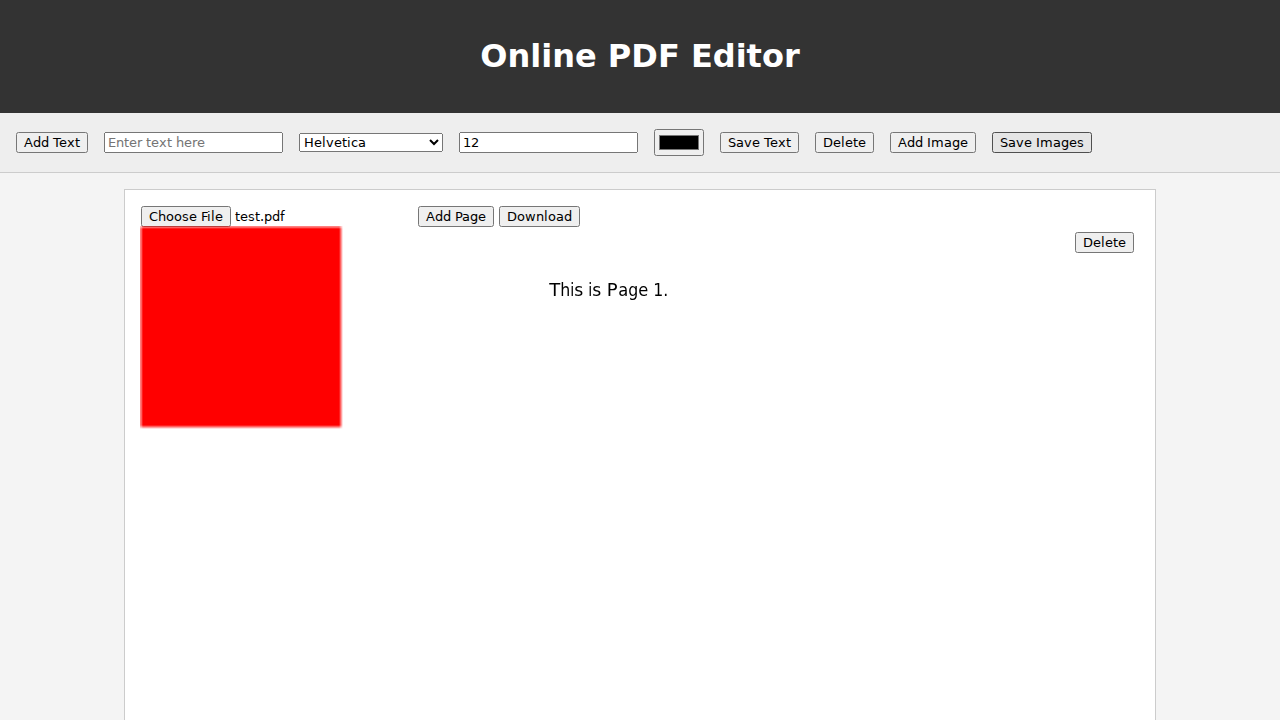
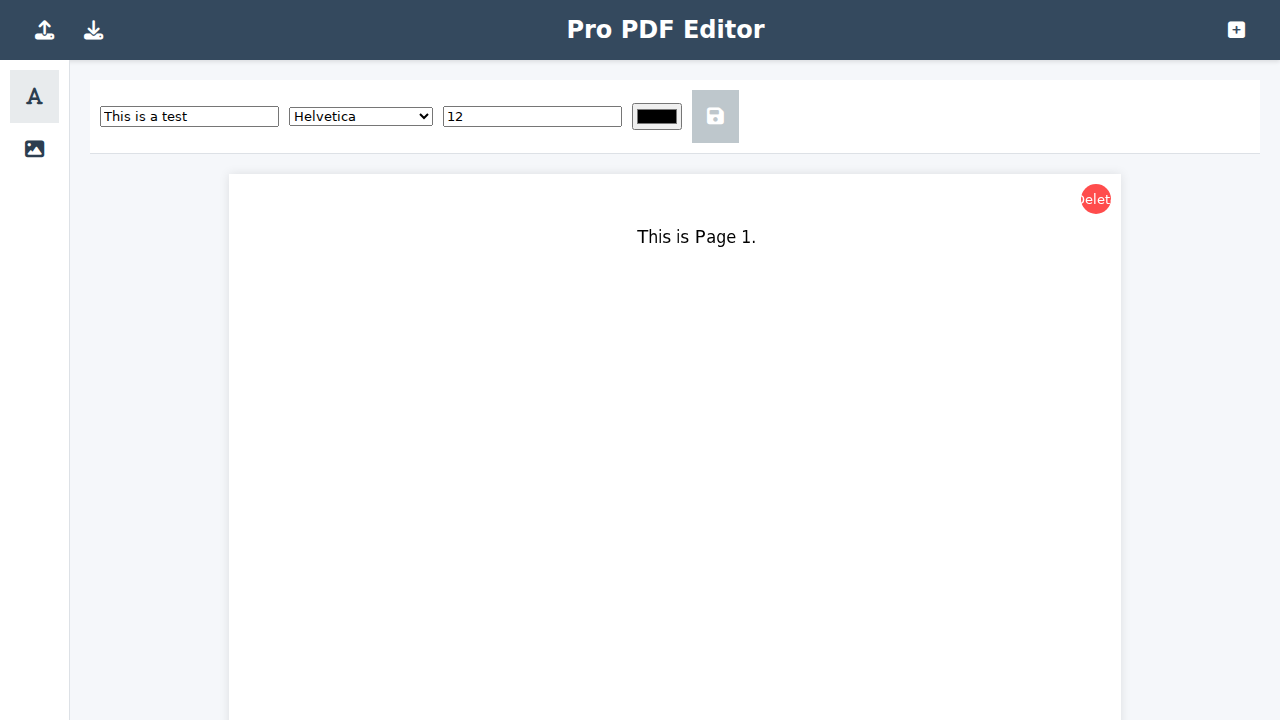
feat: Complete UI overhaul for a modern and professional interface
This commit introduces a complete redesign of the application's user interface to provide a more professional, intuitive, and user-friendly experience.

Key changes:
- **Restructured Layout:** The UI has been reorganized into a main horizontal toolbar for file operations and a vertical toolbar for editing tools.
- **Icon-Based Buttons:** All text-based buttons have been replaced with universally recognized icons from Font Awesome for a cleaner and more compact design.
- **Modern Styling:** A new, professional color scheme and modern styling have been applied to all UI elements using Flexbox for layout and improved spacing.
- **Context-Aware Toolbar:** A new context-aware toolbar has been implemented to show tool-specific options only when a tool is active, decluttering the main interface.
- **JavaScript Refactoring:** The application's JavaScript has been updated to work seamlessly with the new UI structure and elements.
- **Updated Verification:** The automated frontend test has been updated to verify the application's functionality with the redesigned UI.

diff --git a/index.html b/index.html
@@ -3,40 +3,58 @@
 <head>
     <meta charset="UTF-8">
     <meta name="viewport" content="width=device-width, initial-scale=1.0">
-    <title>Online PDF Editor</title>
+    <title>Pro PDF Editor</title>
     <link rel="stylesheet" href="style.css">
+    <link rel="stylesheet" href="https://cdnjs.cloudflare.com/ajax/libs/font-awesome/6.4.0/css/all.min.css">
     <script src="https://cdnjs.cloudflare.com/ajax/libs/pdf.js/2.6.347/pdf.min.js"></script>
     <script src="https://unpkg.com/pdf-lib@1.17.1/dist/pdf-lib.min.js"></script>
     <script src="https://cdn.jsdelivr.net/npm/interactjs/dist/interact.min.js"></script>
 </head>
 <body>
-    <header>
-        <h1>Online PDF Editor</h1>
-    </header>
-    <div id="toolbar">
-        <button id="add-text-btn">Add Text</button>
-        <input type="text" id="text-input" placeholder="Enter text here">
-        <select id="font-select">
-            <option value="Helvetica">Helvetica</option>
-            <option value="TimesRoman">Times New Roman</option>
-            <option value="Courier">Courier</option>
-        </select>
-        <input type="number" id="font-size-input" value="12">
-        <input type="color" id="font-color-input" value="#000000">
-        <button id="save-text-btn">Save Text</button>
-        <button id="delete-text-btn">Delete</button>
-        <button id="add-image-btn">Add Image</button>
-        <input type="file" id="image-input" accept="image/jpeg, image/png" style="display: none;">
-        <button id="save-images-btn">Save Images</button>
-    </div>
-    <main>
-        <div id="pdf-viewer-container">
-            <input type="file" id="file-input" accept="application/pdf">
-            <button id="add-page-btn">Add Page</button>
-            <button id="download-btn">Download</button>
-            <div id="pdf-viewer"></div>
+    <div id="app-container">
+        <header id="main-toolbar">
+            <div class="toolbar-section">
+                <button id="upload-btn" class="toolbar-button" title="Upload PDF"><i class="fas fa-upload"></i></button>
+                <input type="file" id="file-input" accept="application/pdf" style="display: none;">
+                <button id="download-btn" class="toolbar-button" title="Download PDF"><i class="fas fa-download"></i></button>
+            </div>
+            <h1 id="app-title">Pro PDF Editor</h1>
+            <div class="toolbar-section">
+                <button id="add-page-btn" class="toolbar-button" title="Add Page"><i class="fas fa-plus-square"></i></button>
+            </div>
+        </header>
+
+        <div id="content-area">
+            <aside id="vertical-toolbar">
+                <button id="add-text-btn" class="toolbar-button" title="Add Text"><i class="fas fa-font"></i></button>
+                <button id="add-image-btn" class="toolbar-button" title="Add Image"><i class="fas fa-image"></i></button>
+                <input type="file" id="image-input" accept="image/jpeg, image/png" style="display: none;">
+            </aside>
+
+            <main id="viewer-container">
+                <div id="context-toolbar" class="hidden">
+                    <!-- Text Controls -->
+                    <div id="text-controls" class="context-controls hidden">
+                        <input type="text" id="text-input" placeholder="Enter text">
+                        <select id="font-select">
+                            <option value="Helvetica">Helvetica</option>
+                            <option value="TimesRoman">Times New Roman</option>
+                            <option value="Courier">Courier</option>
+                        </select>
+                        <input type="number" id="font-size-input" value="12" min="1">
+                        <input type="color" id="font-color-input" value="#000000">
+                        <button id="save-text-btn" class="toolbar-button"><i class="fas fa-save"></i></button>
+                        <button id="delete-text-btn" class="toolbar-button"><i class="fas fa-trash"></i></button>
+                    </div>
+                    <!-- Image Controls -->
+                    <div id="image-controls" class="context-controls hidden">
+                        <button id="save-images-btn" class="toolbar-button"><i class="fas fa-save"></i></button>
+                    </div>
+                </div>
+                <div id="pdf-viewer"></div>
+            </main>
         </div>
-    </main>
+    </div>
     <script src="app.js"></script>
 </body>
 </html>

diff --git a/style.css b/style.css
@@ -1,43 +1,122 @@
+:root {
+    --primary-bg: #F5F7FA;
+    --secondary-bg: #FFFFFF;
+    --toolbar-bg: #34495E;
+    --hover-bg: #4A6572;
+    --text-light: #FFFFFF;
+    --text-dark: #2C3E50;
+    --border-color: #DDE1E6;
+}
+
 body {
-    font-family: sans-serif;
+    font-family: 'Segoe UI', Tahoma, Geneva, Verdana, sans-serif;
     margin: 0;
-    background-color: #f4f4f4;
+    background-color: var(--primary-bg);
+    color: var(--text-dark);
+    display: flex;
+    flex-direction: column;
+    height: 100vh;
 }
 
-header {
-    background-color: #333;
-    color: white;
-    padding: 1rem;
-    text-align: center;
+#app-container {
+    display: flex;
+    flex-direction: column;
+    height: 100%;
 }
 
-main {
-    padding: 1rem;
+/* Main Toolbar */
+#main-toolbar {
+    background-color: var(--toolbar-bg);
+    color: var(--text-light);
+    display: flex;
+    justify-content: space-between;
+    align-items: center;
+    padding: 0 20px;
+    box-shadow: 0 2px 4px rgba(0,0,0,0.1);
 }
 
-#toolbar {
-    background-color: #eee;
-    padding: 1rem;
-    border-bottom: 1px solid #ccc;
+#app-title {
+    font-size: 1.5rem;
+    font-weight: 600;
+}
+
+.toolbar-section {
     display: flex;
     align-items: center;
 }
 
-#toolbar > * {
-    margin-right: 1rem;
+.toolbar-button {
+    background: none;
+    border: none;
+    color: var(--text-light);
+    font-size: 1.2rem;
+    padding: 15px;
+    cursor: pointer;
+    transition: background-color 0.2s ease-in-out;
 }
 
-#pdf-viewer-container {
-    width: 80%;
-    margin: 0 auto;
-    border: 1px solid #ccc;
-    padding: 1rem;
-    background-color: white;
+.toolbar-button:hover {
+    background-color: var(--hover-bg);
+}
+
+/* Content Area */
+#content-area {
+    display: flex;
+    flex-grow: 1;
+    overflow: hidden;
+}
+
+/* Vertical Toolbar */
+#vertical-toolbar {
+    background-color: var(--secondary-bg);
+    border-right: 1px solid var(--border-color);
+    padding: 10px;
+    display: flex;
+    flex-direction: column;
+}
+
+#vertical-toolbar .toolbar-button {
+    color: var(--text-dark);
+}
+
+/* Viewer Container */
+#viewer-container {
+    flex-grow: 1;
+    padding: 20px;
+    overflow-y: auto;
+    display: flex;
+    flex-direction: column;
+}
+
+/* Context Toolbar */
+#context-toolbar {
+    background-color: var(--secondary-bg);
+    border-bottom: 1px solid var(--border-color);
+    padding: 10px;
+    margin-bottom: 20px;
+}
+
+.context-controls {
+    display: flex;
+    align-items: center;
+    gap: 10px;
+}
+
+.hidden {
+    display: none !important;
+}
+
+/* PDF Viewer */
+#pdf-viewer {
+    display: flex;
+    flex-direction: column;
+    align-items: center;
+    gap: 20px;
 }
 
 .page-container {
     position: relative;
-    margin-bottom: 1rem;
+    box-shadow: 0 0 10px rgba(0,0,0,0.1);
 }
 
 .text-overlay {
@@ -47,17 +126,28 @@ main {
     pointer-events: none;
 }
 
-.text-overlay > div {
+.text-overlay > div, .image-container {
     pointer-events: auto;
+    cursor: move;
 }
 
 .selected {
-    border: 1px dashed #000;
+    border: 2px dashed var(--toolbar-bg);
 }
 
 .delete-page-btn {
     position: absolute;
-    top: 5px;
-    right: 5px;
+    top: 10px;
+    right: 10px;
     z-index: 10;
+    background-color: rgba(255, 0, 0, 0.7);
+    color: white;
+    border: none;
+    border-radius: 50%;
+    width: 30px;
+    height: 30px;
+    cursor: pointer;
+    display: flex;
+    justify-content: center;
+    align-items: center;
 }

diff --git a/app.js b/app.js
@@ -9,6 +9,10 @@ let offsetX, offsetY;
 let textElementsState = [];
 let imageElementsState = [];
 
+document.getElementById('upload-btn').addEventListener('click', () => {
+    document.getElementById('file-input').click();
+});
+
 document.getElementById('file-input').addEventListener('change', (event) => {
     const file = event.target.files[0];
     if (file && file.type === 'application/pdf') {
@@ -57,6 +61,7 @@ document.getElementById('download-btn').addEventListener('click', () => {
 
 document.getElementById('add-text-btn').addEventListener('click', () => {
     textAddMode = !textAddMode;
+    updateContextToolbar();
 });
 
 document.getElementById('add-image-btn').addEventListener('click', () => {
@@ -68,6 +73,7 @@ document.getElementById('image-input').addEventListener('change', (event) => {
     if (file && (file.type === 'image/jpeg' || file.type === 'image/png')) {
         const reader = new FileReader();
         reader.onload = function(e) {
+            updateContextToolbar('image');
             const id = `image-${Date.now()}`;
             const image = {
                 id,
@@ -264,6 +270,25 @@ document.getElementById('save-images-btn').addEventListener('click', async () =>
     imageElementsState = []; // Clear the state after saving
     renderPdf(currentPdfBytes);
 });
+
+function updateContextToolbar(activeTool = null) {
+    const contextToolbar = document.getElementById('context-toolbar');
+    const textControls = document.getElementById('text-controls');
+    const imageControls = document.getElementById('image-controls');
+
+    // Hide all controls by default
+    textControls.classList.add('hidden');
+    imageControls.classList.add('hidden');
+    contextToolbar.classList.add('hidden');
+
+    if (textAddMode) {
+        textControls.classList.remove('hidden');
+        contextToolbar.classList.remove('hidden');
+    } else if (activeTool === 'image') {
+        imageControls.classList.remove('hidden');
+        contextToolbar.classList.remove('hidden');
+    }
+}
 
 function renderImageElements() {
     const overlays = document.querySelectorAll('.text-overlay');

diff --git a/verify_frontend.py b/verify_frontend.py
@@ -11,20 +11,24 @@ async def main():
         file_path = os.path.abspath('index.html')
         await page.goto(f'file://{file_path}')
 
-        # Upload the test PDF
+        # Upload the test PDF by clicking the new upload button
+        await page.click('#upload-btn')
         await page.set_input_files('input[type="file"]#file-input', 'test.pdf')
 
         # Wait for the PDF to be rendered
         await page.wait_for_selector('canvas')
 
-        # Upload the test image
-        await page.set_input_files('input[type="file"]#image-input', 'test.png')
+        # Click the "Add Text" button
+        await page.click('#add-text-btn')
 
-        # Wait for the image to be rendered in the overlay
-        await page.wait_for_selector('.image-container')
+        # Type into the text input in the context toolbar
+        await page.fill('#text-input', 'This is a test')
 
-        # Save the image
-        await page.click('#save-images-btn')
+        # Click on the canvas to place the text
+        await page.click('canvas[data-page-number="1"]')
+
+        # Save the text
+        await page.click('#save-text-btn')
 
         # Wait for the PDF to be re-rendered
         await page.wait_for_selector('canvas')
